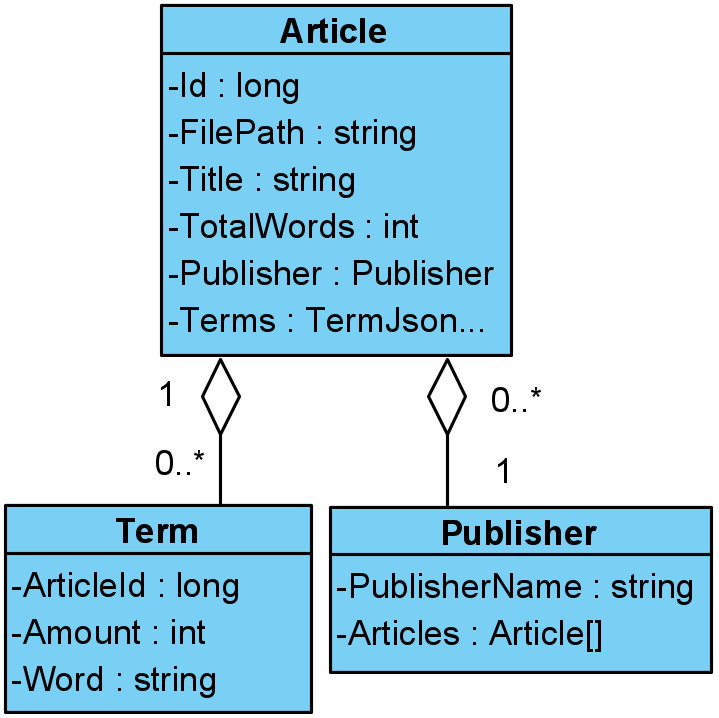
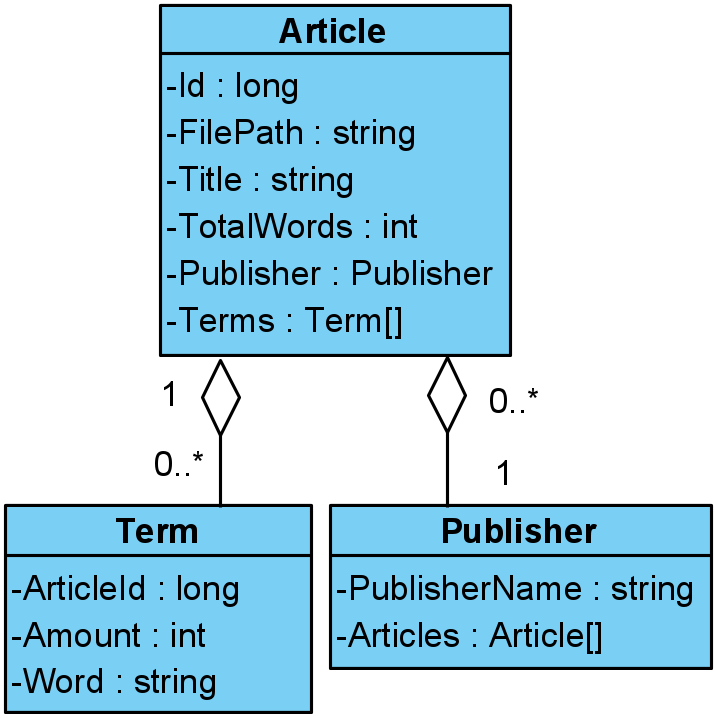
Update Marco's diagrams

diff --git a/sections/Chapter 5 Sprint 3/db_design_redone.tex b/sections/Chapter 5 Sprint 3/db_design_redone.tex
@@ -143,13 +143,15 @@ By comparing the semantics and overall size of code snippet \ref{lst:old_control
 However, despite the many advantages from the redesign, it has a major memory issue.
 In our rush to quickly implement the redesign, we unfortunately overlooked how to effectively store words from articles. 
 
-\begin{figure}[h]
-    \centering
-    \includegraphics[width=\linewidth]{Images/New database model.png}
-    \caption{ER diagram of the new database model.}
-    \label{newdatabaseER}
-\end{figure}
-
 Currently, we just store every single word in the database without regard for duplicates, which takes up way more space than necessary.
 Ideally, we should instead store each word only once with an associated counter for how many times the given appears in an article.
 We realize the issues with the current design and would like to address them in the near-future if time permits it.
+
+The current database design is captured in the ER-diagram in figure \ref{newdatabaseER}.
+
+\begin{figure}[h]
+    \centering
+    \includegraphics[scale=0.8]{Images/New database model.png}
+    \caption{ER diagram of the new database model.}
+    \label{newdatabaseER}
+\end{figure}
